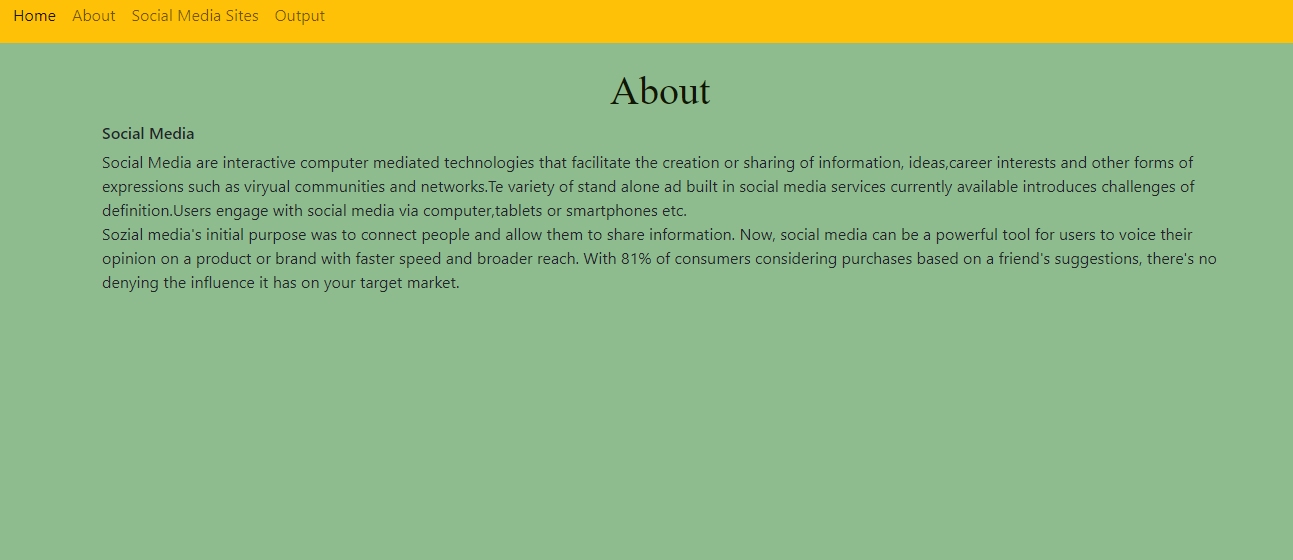
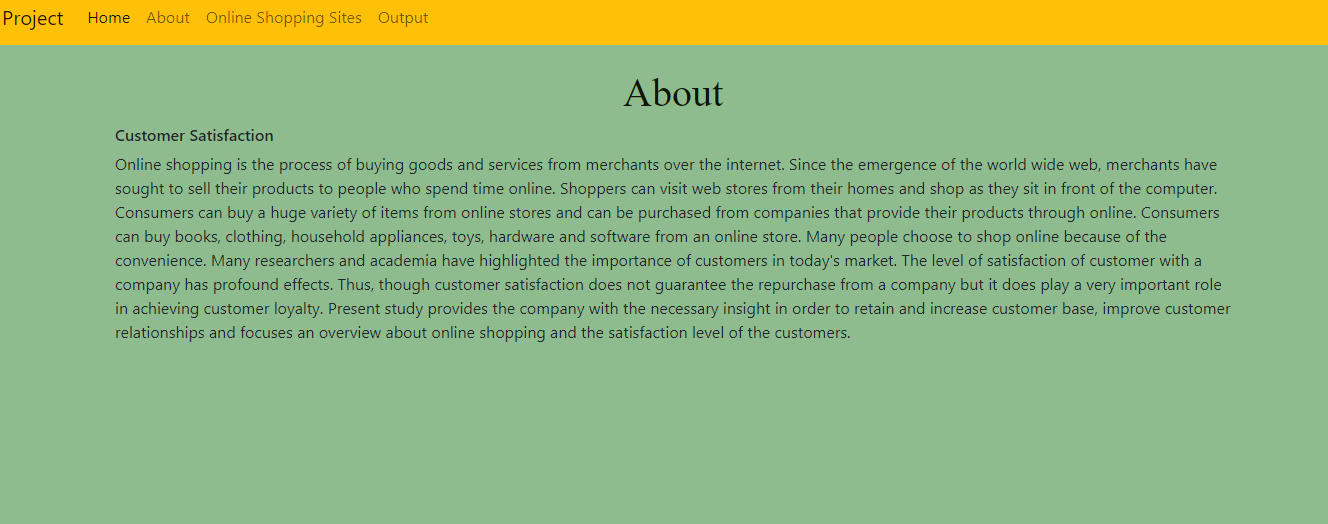
changed the content

Changed region(s): [[0.0619, 0.2137, 0.959, 0.6718], [0.0, 0.0, 1.0, 0.0916], [0.464, 0.1527, 0.5568, 0.2137]]

diff --git a/about.php b/about.php
@@ -24,7 +24,7 @@
                 <a class="nav-link" href="about.php">About</a>
               </li>
               <li class="nav-item">
-                <a class="nav-link" href="media.php">Social Media Sites</a>
+                <a class="nav-link" href="media.php">Online Shopping Sites</a>
               </li>
               <li class="nav-item">
                 <a class="nav-link" href="output.php">Output</a>
@@ -39,13 +39,9 @@
     <div class="container">
         <div class="row">
             <div class="col col-12 col-sm-12 col-m-12">
-                <h6 class="h6">Social Media</h6>
-                <p>Social Media are interactive computer mediated technologies that facilitate the creation or
-                    sharing of information, ideas,career interests and other forms of expressions such as viryual communities
-                    and networks.Te variety of stand alone ad built in social media services currently available introduces challenges of definition.Users engage with social media via computer,tablets or smartphones etc.<br>
-                    Sozial media's initial purpose was to connect people and allow them to share information. Now, social media can be a powerful tool for users to voice their opinion on a product or brand with faster speed and broader reach. With 81% of consumers considering purchases based on a friend's suggestions,
-                    there's no denying the influence it has on your target market.
-
+                <h6 class="h6">Customer Satisfaction</h6>
+                <p>
+                Online shopping is the process of buying goods and services from merchants over the internet. Since the emergence of the world wide web, merchants have sought to sell their products to people who spend time online. Shoppers can visit web stores from their homes and shop as they sit in front of the computer. Consumers can buy a huge variety of items from online stores and can be purchased from companies that provide their products through online. Consumers can buy books, clothing, household appliances, toys, hardware and software from an online store. Many people choose to shop online because of the convenience. Many researchers and academia have highlighted the importance of customers in today's market. The level of satisfaction of customer with a company has profound effects. Thus, though customer satisfaction does not guarantee the repurchase from a company but it does play a very important role in achieving customer loyalty. Present study provides the company with the necessary insight in order to retain and increase customer base, improve customer relationships and focuses an overview about online shopping and the satisfaction level of the customers.
                 </p>
             </div>
         </div>

diff --git a/output.php b/output.php
@@ -24,7 +24,7 @@
                 <a class="nav-link" href="about.php">About</a>
               </li>
               <li class="nav-item">
-                <a class="nav-link" href="media.php">Social Media Sites</a>
+                <a class="nav-link" href="media.php">Online Shopping Sites</a>
               </li>
               <li class="nav-item">
                 <a class="nav-link" href="output.php">Output</a>
@@ -34,7 +34,7 @@
         </div>
       </nav>
       <br>
-    <h5 class="h1">OutPuts</h5>
+    <h5 class="h1">Output</h5>
     <div class="container">
         <div class="row">
             <div class="col col-12 col-sm-12 col-m-12">
@@ -69,7 +69,7 @@
                 <div class="card bg-dark text-white">
                     <img src="images\socialmedia.PNG" height="350" width="100" class="card-img" alt="...">
                     <div class="card-img-overlay">
-                      <h5 class="card-title">Social Media Sites</h5>
+                      <h5 class="card-title">Online Shopping Sites</h5>
                       
                     </div>
                   </div>

diff --git a/media.php b/media.php
@@ -24,7 +24,7 @@
                 <a class="nav-link" href="about.php">About</a>
               </li>
               <li class="nav-item">
-                <a class="nav-link" href="media.php">Social Media Sites</a>
+                <a class="nav-link" href="media.php">Online Shopping Sites</a>
               </li>
               <li class="nav-item">
                 <a class="nav-link" href="output.php">Output</a>
@@ -35,7 +35,7 @@
       </nav>
       <br><br>
       
-    <h5 class="h1">Social Media Sites</h5>
+    <h5 class="h1">Top Online Shopping Sites</h5>
     <br>
     <div class="container">
         <div class="row">

diff --git a/index.php b/index.php
@@ -24,7 +24,7 @@
                 <a class="nav-link" href="about.php">About</a>
               </li>
               <li class="nav-item">
-                <a class="nav-link" href="media.php">Social Media Sites</a>
+                <a class="nav-link" href="media.php">Online Shopping sites</a>
               </li>
               <li class="nav-item">
                 <a class="nav-link" href="output.php">Output</a>
